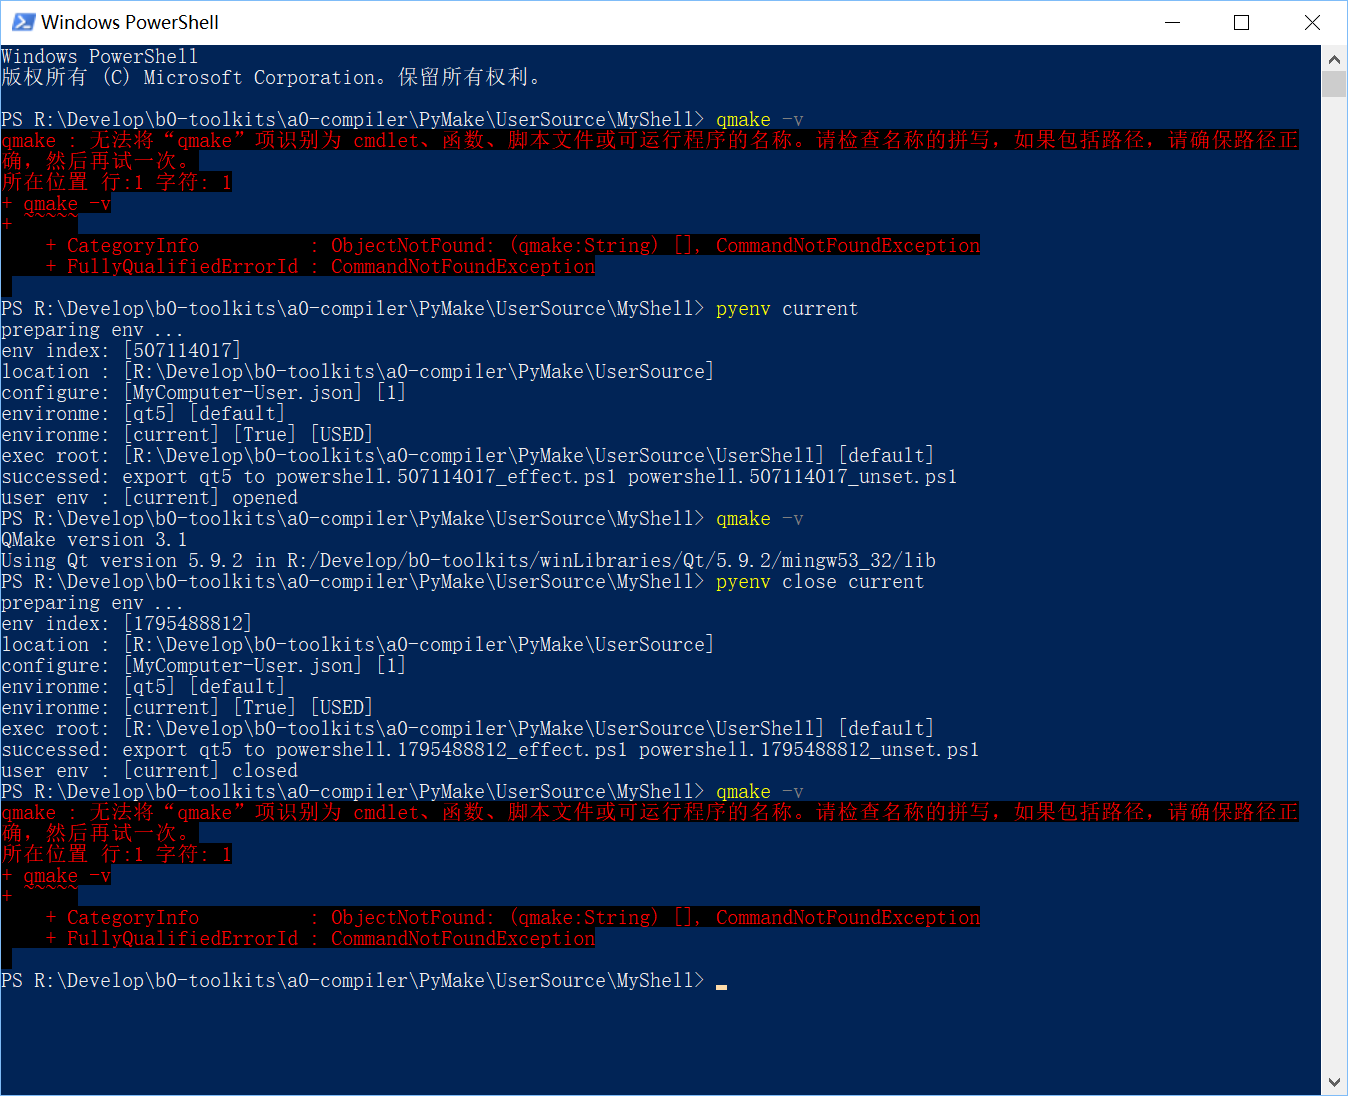
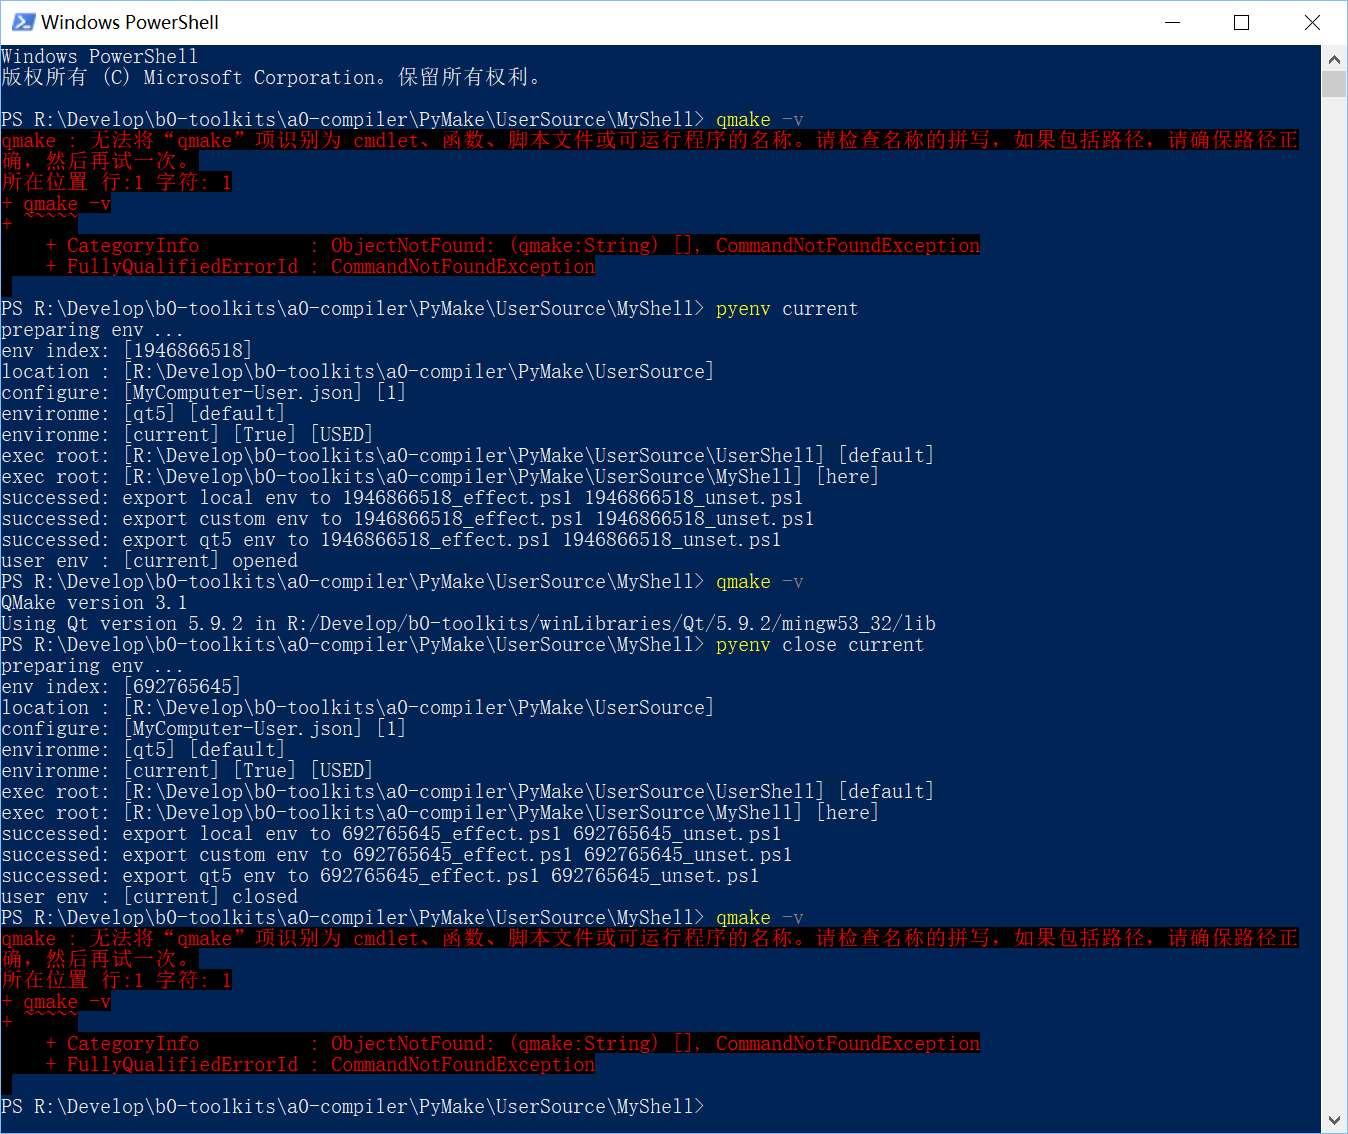
update SHELL.md

Changed region(s): [[0.0, 0.0, 0.9659, 0.9927]]

diff --git a/SHELL.md b/SHELL.md
@@ -129,6 +129,8 @@ pymake program
 
 
 ``` shell
+#查看PyMake提供的local环境
+pymake local 
 
 #开启“在sourceroot里定义的”自定义环境
 pymake custom open
@@ -164,13 +166,29 @@ pypowershell
 #查看系统环境 [system]
 pymake system
 
+#查看PyMake提供的环境
+pymake local 
+
 #查看自定义环境 [custom]
 pymake custom
 
 #查看独立环境 [separate]
 pymake env current -r
 
+# 另外一组查看环境的命令
+pymake get all settings --local --custom --system --current --envname <env-name>
+
 ```
+
+```cmd
+# 使用其他语言执行命令
+pymake language exec-with-params php --params xxx.php --params ...
+
+#language命令的快捷方式
+pylanguage php xxx.php ...
+
+```
+
 #### pymake使用截图  
 ![命令行截图](./screenshot/a2.png)  
 
